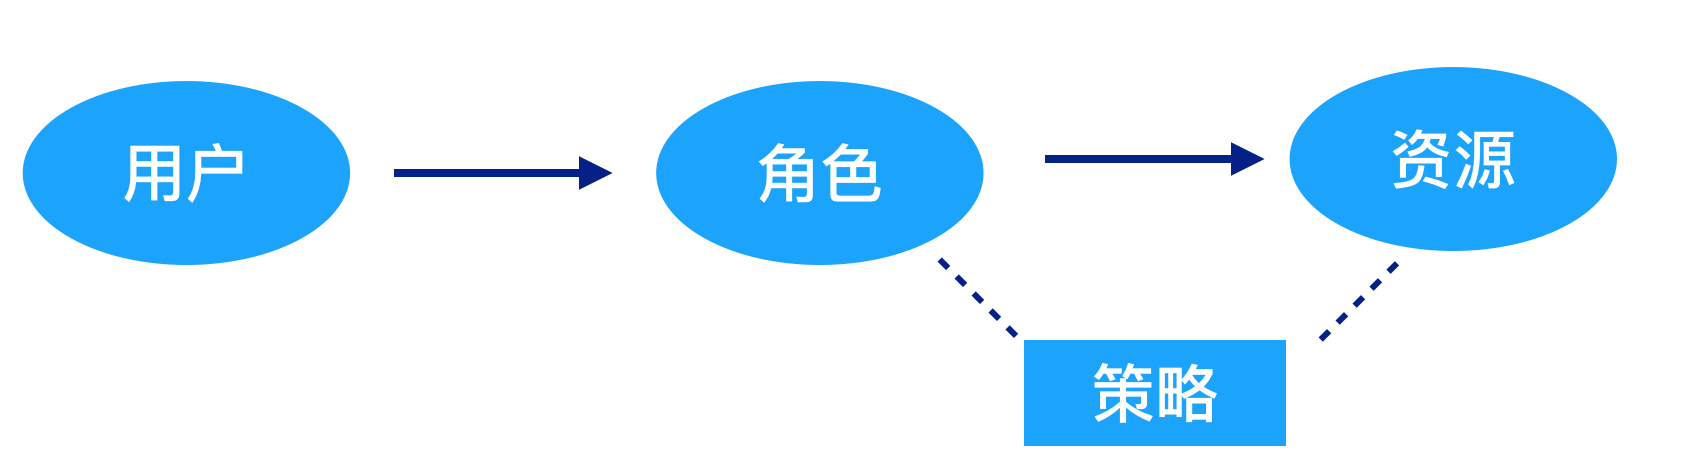
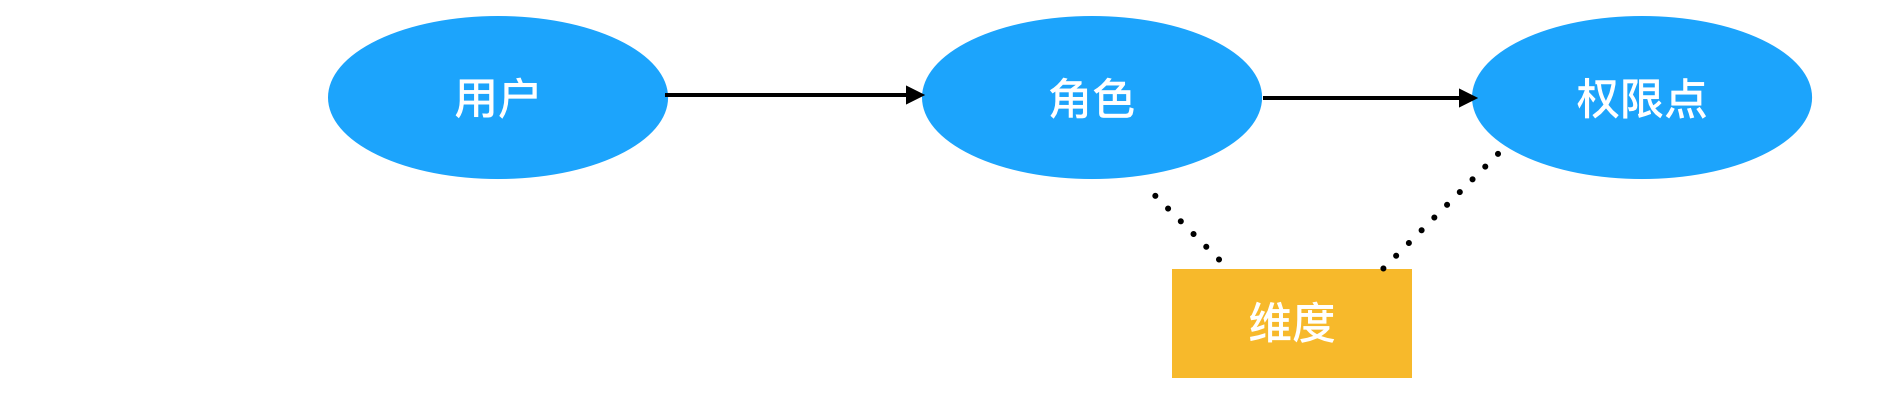
abac

diff --git a/source/_posts/access-control-policies.md b/source/_posts/access-control-policies.md
@@ -8,50 +8,79 @@ categories: 业务实践
 ---
 本文试图用不那么学术性的白话解释各种权限管理模型和适合使用场景。
 <!--more-->
-# 名词解释
-- 主体：进行资源访问的实体。例如用户，服务，进程等。为了易于理解起见，本文将主体简化为用户。
-- 客体：资源。例如系统，数据等，本文将客体简化为资源。
-- 访问控制：访问控制限制主体对客体的访问权限，从而使系统在合法范围内使用；其实就是解决谁可以对什么资源进行什么样的操作的问题。
+## 名词解释
+- 客体：例如系统，数据等，本文将客体简化为权限点。
+- 主体：进行权限点访问的实体。例如用户，服务，进程等。为了易于理解起见，本文将主体简化为用户。
+- 访问控制：访问控制限制用户对权限点的访问权限，从而使系统在合法范围内使用；其实就是解决谁可以对什么权限点进行什么样的操作的问题。例如，某个页面只能由公司HR访问，这里用户是HR，权限点就是页面, 通过给HR关联权限达到限制页面访问的目的。
+- UPM: 统一权限管理系统，也是笔者目前负责的系统。
 
-例如，某个页面只能由公司HR访问，这里主体是公司的HR，客体就是页面, 通过给公司HR关联权限达到限制页面访问的目的。
-# ACL
-ACL（Access Contrl List）是上个世纪90年代提出的权限控制模型。ACL是一个规则列表, 将客体和主体进行了映射, 规定了客体资源可以被哪些主体进行操作。例如公司的docker白名单（给docker添加了某个IP白名单，这台docker就可以访问这个IP）。另外公司弹性云集群流量隔离都是通过ACL去实现的访问控制。再比如某些业务系统使用ACL定义了用户和业务线的访问控制关系。
+## ACL
+ACL（Access Control List）是上个世纪90年代提出的权限控制模型。ACL是一个规则列表,规定资源可以什么规则访问， 例如公司的docker白名单（给docker添加了某个IP白名单，这台docker就可以访问这个IP）。
+
+在用户权限管控场景，ACL将用户和进行了映射, 规定了哪些可以被哪些用户进行操作。ACL模型如下图所示：
 <img src="acl.png" alt="ACL模型" width = "400" height = "200" align=center />
-ACL的优点在于它非常简单，易于实现。但是它的缺点也非常明显： 用户和资源直接关联，在应对大量用户和客体资源的权限管控的时候，访问控制列表就会变得非常繁琐。解决思路也非常简单，用户和资源之间再抽象一层，给资源分一个资源类，用户直接和这个类别关联，这样就清晰很多 -- 这个资源类就是角色。
 
-# RBAC
-RBAC （Role Based Access Control） 模型也是上个世纪90年代提出的ACL增强版的权限控制模型。RBAC将人和资源解耦，在用户和资源之间增加了一个中间桥梁 -- 角色。 角色可以看做是一组操作的集合，不同的角色具有不同的操作集，这些操作集关联到用户身上。一个用户可以拥有多个角色，从而实现权限管理的灵活性。
+ACL是一种初级权限管理，适合比较粗粒度的权限管理场景。例如“晋级评审系统” 设置了flag=“晋升评委标志位”， 隔离了评委和非评委能看的页面。再例如UPM统一权限管理系统使用flag 对 管理员 和 超级管理员能做的操作做了区分。
+
+在UPM中针对具体业务场景我们抽象出了领域 Flag 标识位和地区Area 用来实现ACL模型。
+
+其中地区与公司各个业务线关联，表示用户的某一业务线下地区的权限。Flag属于更上层的抽象，在UPM中Flag是抽象出来的树状权限点，主要让业务方用来给用户打标做权限控制。这个权限点的含义业务方可以自行定义，比如有的用来做组织架构，有的用来做地区，都是可以的。
+
+使用每个模型应该针对场景扬长避短， ACL适用于业务系统权限需求简单，功能点数量较少的场景。如果业务系统权限管理需求复杂，ACL在应对大量用户和权限点的权限管控的时候就会变得非常繁琐。这时候需要用户和权限点之间再抽象一层，给权限点分一个权限点类，用户直接和这个类别关联，这样就清晰很多 -- 这个权限点类就是角色。
+
+## RBAC
+RBAC （Role Based Access Control） 模型也是上个世纪90年代提出的ACL增强版的权限控制模型。RBAC将人和权限点解耦，在用户和权限点之间增加了一个中间桥梁 -- 角色。 角色可以看做是一组操作的集合，不同的角色具有不同的操作集，这些操作集关联到用户身上。一个用户可以拥有多个角色，从而实现权限管理的灵活性。RBAC模型如下图所示：
 <img src="rbac.png" alt="RBAC模型" width = "600" height = "300" align=center />
 
-例如「XX系统」根据用户的岗位分为了“运营角色”，“客服角色”，“电销管理员角色”，“财务角色”等多个角色。再例如「XX系统」根据自身业务内容划分了角色：“问题诊断角色”, "查询角色"等。
+在UPM中RBAC模型，也就是基于角色的权限管理被用来做 <font color="red">页面访问权限的控制</font>。  最直观的用户**可以看到哪些URL页面或者用户可以点击哪些按钮**。RBAC使用场景非常广泛，例如：
 
-## ACL✖RBAC 
-公司拥有多条业务线，例如专车，快车, 安全等等。这样在管理权限时候就会遇到一个问题 -- 如何管理不同业务线的同一类操作问题。而这类问题使用RBAC和RBAC✖ACL都可以解决:
-- RBAC模型：「A系统」针对不同业务线的同一个操作设置了多个角色，例如角色“专车-看板角色”, “快车-看板角色”,”安全-看板角色”等等。
-- RBAC✖ACL的模型：「B系统」使用ACL标识定义了业务线资源（设置了标识位：专车，快车, 安全），再设置了一个“看板角色”，用户在申请角色的时候选择自己业务线的标识位，再选择看板角色即可。
-
-可以看出虽然是同一个RBAC模型，不同使用者（业务系统）使用的效果各异。这就好比在权限系统提供基础食材（权限模型），各个厨师（业务系统）对各个基础食材各有发挥，做出来的菜也不一样。同样是土豆，有的厨师做出了土豆丝，有的做出了薯条。每一种使用方式都可以解决业务系统的业务问题，权限系统重点在于提供一个可以让厨师自由选择食材的平台。
+「XX系统」根据用户的岗位分为了“运营角色”，“客服角色”，“电销管理员角色”，“财务角色”等多个角色。再例如「XX系统」根据自身业务内容划分了角色：“问题诊断角色”, "查询角色"等。
 
 RBAC模型的优点显而易见：大大简化了权限管理，降低了管理开销，使得权限管理系统具有更强大的可操作性和可管理性。事实证明，RBAC也是公司目前被业务系统使用最多的权限管理模型。
 
-纵观ACL和RBAC两个模型，这两个模型虽然强大，但是仍然很难覆盖所有权限管理场景。例如管控“预算部门是汽车资产管理中心且操作城市是北京”的用户的某一角色权限，普通的RBAC或者多个ACL✖RBAC模型管理的复杂度会增加很多。总结来说，复杂的权限管控场景需要可以动态根据一个或者一组属性是否满足某种条件进行权限判断，而这就是ABAC产生的背景。
+### ACL✖RBAC 组合会造成权限扩大，慎用
 
-# ABAC
+公司拥有多条业务线，例如专车，快车, 安全等等。这样在管理权限时候就会遇到一个问题 -- 如何管理不同业务线的同一类操作问题。而这类问题使用RBAC和RBAC ∪ACL都可以解决:
+- RBAC模型：「A系统」针对不同业务线的同一个操作设置了多个角色，例如角色“专车-看板角色”, “快车-看板角色”,”安全-看板角色”等等。
+- RBAC✖ACL的模型：「B系统」使用ACL标识定义了业务线资源（设置了标识位：专车，快车, 安全），再设置了一个“看板角色”，用户在申请角色的时候选择自己业务线的标识位，再选择看板角色即可。
+
+另外，从这里例子中也可以看出虽然是同一个RBAC模型，不同使用者（业务系统）使用的效果各异。这就好比在UPM权限系统提供基础食材（权限模型），各个厨师（业务系统）对各个基础食材各有发挥，做出来的菜也不一样。同样是土豆，有的厨师做出了土豆丝，有的做出了薯条。每一种使用方式都可以解决业务系统的业务问题，权限系统重点在于提供一个可以让厨师自由选择食材的平台。
+
+纵观ACL和RBAC两个模型，这两个模型虽然强大，但是仍然很难覆盖所有权限管理场景。例如管控“预算部门是汽车资产管理中心且操作城市是北京”的用户的某一运营操作权限，这就要求用户在有某一角色的情况下根据一个或者一组属性是否满足某种条件进行权限判断，而这就是ABAC产生的背景。
+
+## ABAC
 Attribute Based Access Control (ABAC)是2013提出的模型。不同于RBAC和ACL将用户通过某种方式与资源关联的方式，ABAC是通过动态计算一个或者一组属性是否满足某种条件进行授权判断。ABAC可以实现非常灵活的权限控制，几乎能满足所有类型的需求。
 
-ABAC的属性有四类：
-- 用户属性（用户职位）
-- 操作属性（增删改查）
-- 环境属性 （当前时间）
-- 资源属性
+一个灵活的权限管理，应该支持<font color="red"> Who（用户）</font> 是否可以对 <font color="red"> What（资源）</font> 进行 <font color="red"> How（策略-维度节点）</font> 的访问操作。基于RBAC的权限管理，仅支持who对what进行操作，不支持相关业务的数据权限，也不支持多维度数据权限。
 
-目前我们的ABAC模型是给资源添加各种策略（属性），模型如下图：
+ABAC 相关概念：
+- 维度： 控制数据权限的域。如地域是一个维度，产品线是另一个维度。
+- 维度节点：数据权限域中的具体节点，如地域维度中，有北京、上海节点；产品线维度中，有快车、出租车、专车节点。 节点可以是扁平的，也可以组织成一棵树。
+- 策略：指定控制数据权限的维度。如访问访问角色1的页面时，策略指定通过地域维度控制。策略是一个算子，并非具体的值，入参是用户id, 出参是具体维度节点。
+
 <img src="abac.png" alt="ABAC模型" width = "600" height = "300" align=center />
 
+<img src="abac2.png" alt="ABAC模型" width = "600" height = "300" align=center />
+
+目前我们的ABAC模型是给资源添加各种策略，并给用户维度节点权限，模型如下图：
+
+ABAC能够完整表述权限控制的Who是否可以对What进行How操作。举个例子,如果想表述：<font color="blue">“张三在司机报表中能够查看全国的快车司机”</font>。这时候张三首先需要第一个权限：
+- “司机报表角色”，司机报表角色对应查询司机报表功能权限点；
+
+另外，司机报表角色需要对应策略：司机报表策略（要根据地区/产品线识别用户身份）。并建立地区维度（地区域），设置相关地区域的节点（全国，北京，天津）。建立产品线维度（产品线域），并设置相关产品线域的节点（专车，快车）
+因此，张三需要第二个权限：
+- 维度节点权限。“全国” 和 “快车”维度节点权限以此来控制张三可以看见哪部分报表。
+
+权限控制如图：
+ <img src="abac3.png" alt="ABAC模型" width = "600" height = "300" align=center />
+
+
 ABAC模型虽然强大，但是通常这个模型都是最后一个选择。实际使用中往往我们推荐给权限模型使用者都是RBAC>ACL>ABAC. 正是因为ABAC模型很强大，他试图解决所有权限管理场景，就会带来管理策略非常复杂的问题，使用起来也不是很用户友好，实际场景难以运营和落地。
- 
-# Summary
+
+## Summary
 目前我们的系统作为统一权限管理平台，支持ACL,RBAC以及ABAC三种权限模型的管理。 
+
+
 
 
 
